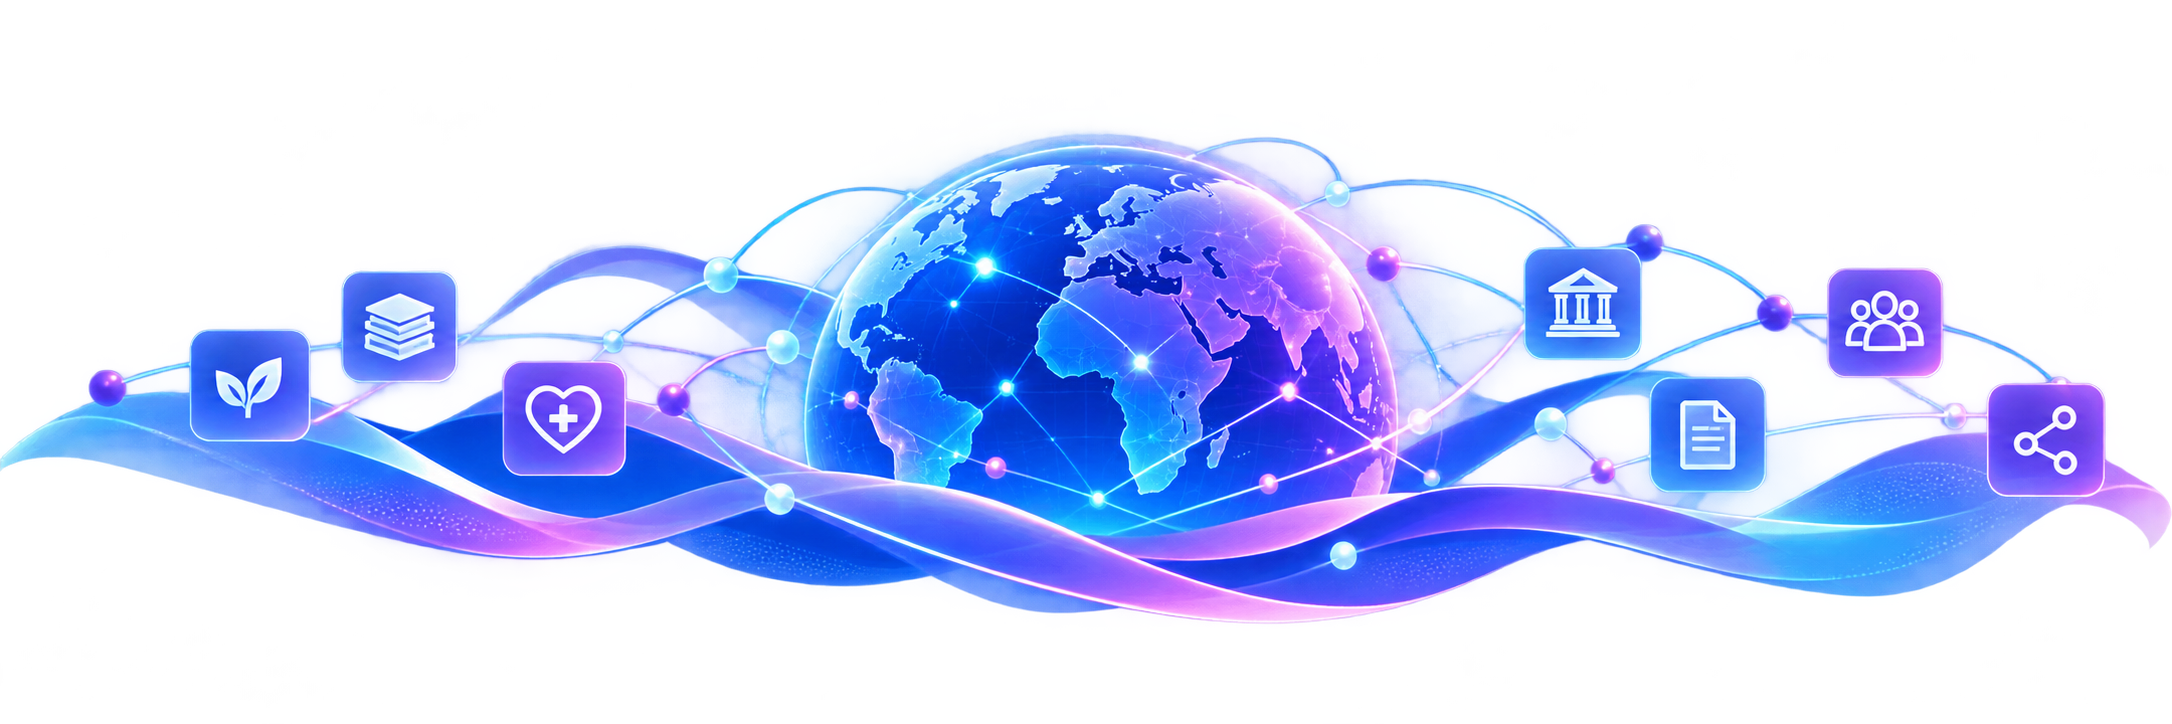
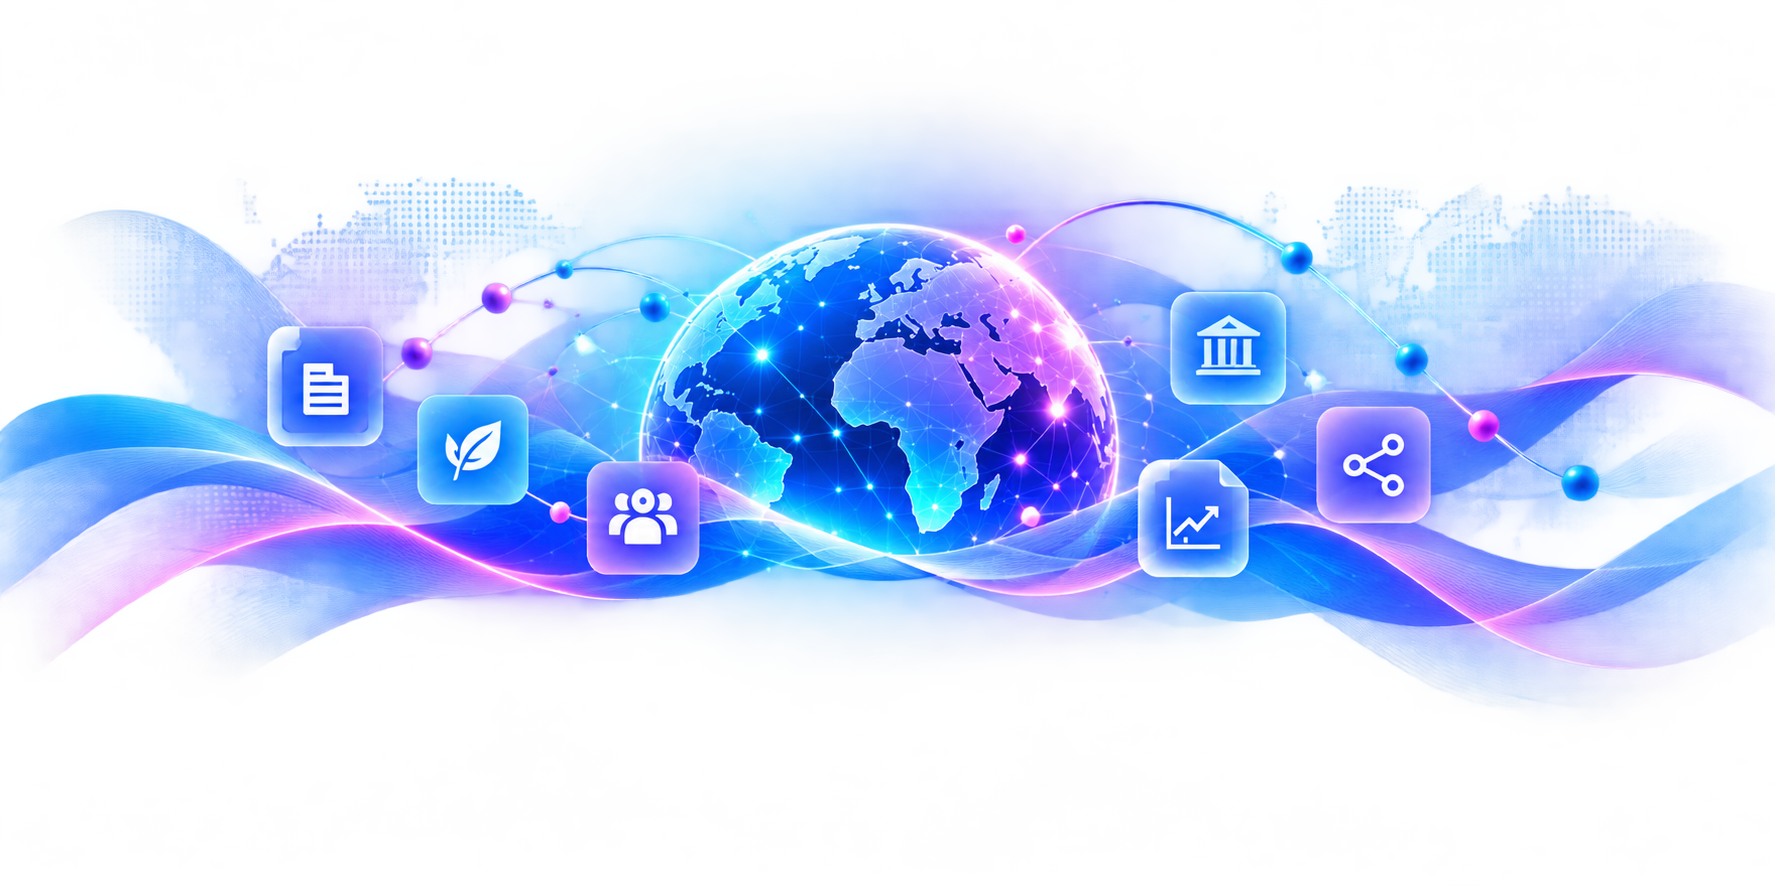
test(theme): the visual fidelity gate
The acceptance criterion for the visual layer is the render, so the
check has to be a render. The capture script takes the screenshot and
the DOM facts a picture cannot prove — whether each decoration asset
resolves, the computed styles of the surfaces the layer touches, the
resolved custom properties — because a PNG read back only yields a
URL, and an asset that failed to load would otherwise produce a
convincing picture of an empty box.

The assets are probed with fetch rather than an Image probe: the SVGs
carry only a viewBox, so they have no intrinsic size and a natural
width of 0 would be reported for a perfectly valid file.

The hero asset was replaced in place with a user-supplied banner
(1775×886, RGBA, visible art band 1775:543 ≈ 3.27:1). The CSS box was
re-cut from the old 3:1 / 'contain' sizing to a 3.27:1 / 'cover'
positioned at 'center 45.7%' so the transparent margins fall outside
the box; the asset was compressed with 'magick -strip -quality 88'
from 1 786 128 B to 1 629 474 B.

The mesh was layered under a vertical gradient so the dots fade out
above the card row, and the wave ::after was promoted to z-index 0
with mix-blend-mode multiply so the light-blue strokes read against
both surface tones.

The audit and the picture are read together. Where they disagree, the
audit wins.

The e2e case pins the cache contract for the decoration assets: they
live in the operator-editable /config/ directory, so they must be
revalidated like every other file there.

diff --git a/tests/e2e/capture-dashboard.js b/tests/e2e/capture-dashboard.js
@@ -1,0 +1,148 @@
+#!/usr/bin/env node
+/**
+ * Captures the dashboard welcome screen and the DOM facts a screenshot
+ * cannot prove.
+ *
+ * A PNG read back yields a URL, never a claim about how it looks. So every
+ * capture ships with an audit: whether each decoration asset actually
+ * resolves, the computed styles of the surfaces the layer touches, and the
+ * resolved custom properties. If the audit and the picture disagree, the
+ * audit wins.
+ *
+ * The assets are checked with fetch rather than an Image probe: the three
+ * SVGs carry only a viewBox, so they have no intrinsic size and
+ * naturalWidth reports 0 for a perfectly valid file.
+ *
+ * Usage:
+ *   NODE_PATH=<repo>/node_modules BASE_URL=https://localhost node tests/e2e/capture-dashboard.js [--theme light|dark]
+ */
+const fs = require('fs');
+const path = require('path');
+const { chromium } = require('playwright');
+const { loginViaUI } = require('./helpers/chatbot');
+
+const BASE_URL = process.env.BASE_URL || 'https://localhost';
+const OUT_DIR = path.join(__dirname, '..', '..', 'artifacts', 'living-intelligence');
+const VIEWPORT = { width: 1775, height: 886 };
+const THEMES = process.argv.includes('--theme')
+  ? [process.argv[process.argv.indexOf('--theme') + 1]]
+  : ['light', 'dark'];
+
+const audit = () => {
+  const readUrl = (property) => {
+    const raw = getComputedStyle(document.documentElement).getPropertyValue(property).trim();
+    if (!raw) return null;
+    return raw.replace(/^url\(["']?/, '').replace(/["']?\)$/, '');
+  };
+
+  const probeAsset = async (property) => {
+    const url = readUrl(property);
+    if (!url) return { url: null, ok: false, reason: 'not set' };
+    try {
+      const response = await fetch(url, { cache: 'no-store' });
+      const body = await response.text();
+      return {
+        url,
+        ok: response.ok,
+        status: response.status,
+        contentType: response.headers.get('content-type'),
+        bytes: body.length
+      };
+    } catch (error) {
+      return { url, ok: false, reason: error.message };
+    }
+  };
+
+  const surface = (selector) => {
+    const el = document.querySelector(selector);
+    if (!el) return null;
+    const style = getComputedStyle(el);
+    return {
+      backgroundImage: style.backgroundImage,
+      backgroundColor: style.backgroundColor,
+      borderColor: style.borderColor,
+      borderRadius: style.borderRadius,
+      backdropFilter: style.backdropFilter,
+      overflow: style.overflow
+    };
+  };
+
+  return (async () => {
+    const assets = {
+      hero: await probeAsset('--visual-hero'),
+      waves: await probeAsset('--visual-waves'),
+      mesh: await probeAsset('--visual-mesh'),
+      corner: await probeAsset('--visual-corner')
+    };
+
+    const cards = [...document.querySelectorAll('.quick-help-item')].map((el) => {
+      const style = getComputedStyle(el);
+      return {
+        text: el.textContent.trim().slice(0, 40),
+        backgroundColor: style.backgroundColor,
+        borderColor: style.borderColor,
+        qhBg: style.getPropertyValue('--qh-bg').trim(),
+        qhHover: style.getPropertyValue('--qh-hover').trim(),
+        qhOutline: style.getPropertyValue('--qh-outline').trim()
+      };
+    });
+
+    const overlay = document.querySelector('.quick-help-overlay');
+    const overlayBefore = overlay ? getComputedStyle(overlay, '::before') : null;
+
+    return {
+      dataVisual: document.documentElement.getAttribute('data-visual'),
+      theme: document.documentElement.getAttribute('data-theme'),
+      assets,
+      resolved: {
+        visualHero: readUrl('--visual-hero'),
+        brand: getComputedStyle(document.documentElement).getPropertyValue('--brand').trim(),
+        accent: getComputedStyle(document.documentElement).getPropertyValue('--accent').trim()
+      },
+      overlay: surface('.quick-help-overlay'),
+      overlayBefore: overlayBefore
+        ? {
+            width: overlayBefore.width,
+            height: overlayBefore.height,
+            backgroundImage: overlayBefore.backgroundImage
+          }
+        : null,
+      navBar: surface('.nav-bar'),
+      cards,
+      cardCount: cards.length
+    };
+  })();
+};
+
+(async () => {
+  fs.mkdirSync(OUT_DIR, { recursive: true });
+  const browser = await chromium.launch();
+  const results = {};
+
+  for (const theme of THEMES) {
+    const context = await browser.newContext({
+      viewport: VIEWPORT,
+      colorScheme: theme,
+      ignoreHTTPSErrors: true
+    });
+    const page = await context.newPage();
+
+    await loginViaUI(page);
+    await page.waitForSelector('.quick-help-overlay', { timeout: 30000 });
+    // Wait for the splash overlay to fade out (5s display + 1s fade)
+    await page.waitForSelector('.splash-screen', { state: 'detached', timeout: 15000 }).catch(() => {});
+    await page.waitForTimeout(1500);
+
+    const data = await page.evaluate(audit);
+    const file = path.join(OUT_DIR, `${theme}.png`);
+    await page.screenshot({ path: file, fullPage: false });
+    fs.writeFileSync(path.join(OUT_DIR, `${theme}.audit.json`), JSON.stringify(data, null, 2));
+
+    results[theme] = { file, audit: path.join(OUT_DIR, `${theme}.audit.json`) };
+    console.log(`${theme}: ${file}`);
+    await context.close();
+  }
+
+  await browser.close();
+  console.log(JSON.stringify(results, null, 2));
+})();

diff --git a/components/gov-chat-frontend/src/styles/genie-visual-effects.css b/components/gov-chat-frontend/src/styles/genie-visual-effects.css
@@ -70,14 +70,20 @@ html[data-visual='on'] .genie-living-intelligence .chatbot-container {
  * The welcome overlay. The mesh is painted on the overlay rather than
  * on the chat window: the overlay is opaque, so anything painted on the
  * window behind it would never be seen.
+ *
+ * The mesh is sized to its natural 1600:580 aspect and pinned to the top
+ * of the overlay. A vertical gradient on top of the mesh fades it to
+ * surface above the card row, so the field behind the cards reads clean
+ * while the mesh stays faintly present in the hero region.
  */
 html[data-visual='on'] .genie-living-intelligence .quick-help-overlay {
   isolation: isolate;
-  background-image:
-    linear-gradient(180deg, transparent, color-mix(in srgb, var(--surface) 30%, transparent)), var(--visual-mesh);
-  background-position: center, center;
+  background-image: linear-gradient(180deg, transparent 0 28%, var(--surface) 58% 100%), var(--visual-mesh);
+  background-position:
+    center top,
+    center top;
   background-size:
-    cover,
+    100% 100%,
     min(900px, 100%) auto;
   background-repeat: no-repeat;
 }
@@ -89,11 +95,11 @@ html[data-visual='on'] .genie-living-intelligence .quick-help-overlay::before {
   z-index: 0;
   flex: 0 0 auto;
   align-self: center;
-  width: min(100%, 860px);
-  height: clamp(96px, 19vw, 218px);
-  background: var(--visual-hero) center / contain no-repeat;
+  width: min(100%, 920px);
+  height: clamp(180px, 28vw, 282px);
+  background: var(--visual-hero) center 45.7% / cover no-repeat;
   pointer-events: none;
-  filter: drop-shadow(0 12px 25px color-mix(in srgb, var(--accent) 14%, transparent));
+  filter: drop-shadow(0 12px 30px color-mix(in srgb, var(--accent) 16%, transparent));
   animation: gli-enter 650ms ease-out both;
 }
 
@@ -101,11 +107,12 @@ html[data-visual='on'] .genie-living-intelligence .quick-help-overlay::after {
   content: '';
   position: absolute;
   inset: auto 0 0;
-  height: min(32%, 220px);
+  height: min(40%, 280px);
   background: var(--visual-waves) bottom / 100% auto no-repeat;
   opacity: var(--gli-deco-strength);
+  mix-blend-mode: multiply;
   pointer-events: none;
-  z-index: -1;
+  z-index: 0;
 }
 
 html[data-visual='on'] .genie-living-intelligence .quick-help-content {
@@ -169,7 +176,7 @@ html[data-visual='on'] .genie-living-intelligence .document-item {
 
 @media (max-width: 900px) {
   html[data-visual='on'] .genie-living-intelligence .quick-help-overlay::before {
-    height: clamp(76px, 22vw, 160px);
+    height: clamp(140px, 30vw, 230px);
   }
 
   html[data-visual='on'] .genie-living-intelligence .sidebar:not(.collapsed)::before {
@@ -181,7 +188,7 @@ html[data-visual='on'] .genie-living-intelligence .document-item {
 
 @media (max-width: 600px) {
   html[data-visual='on'] .genie-living-intelligence .quick-help-overlay::before {
-    height: 90px;
+    height: clamp(110px, 28vw, 160px);
   }
 
   html[data-visual='on'] .genie-living-intelligence .quick-help-overlay::after {

diff --git a/tests/e2e/living-intelligence.spec.js b/tests/e2e/living-intelligence.spec.js
@@ -1,0 +1,24 @@
+// tests/e2e/living-intelligence.spec.js
+const { test, expect } = require('@playwright/test');
+
+// The decorative layer is configuration, and its assets live in the
+// bind-mounted /config/ directory, so they must be revalidated like the
+// other operator-editable files — a cached copy would keep serving the
+// baked-in illustration after an operator swapped it on the host.
+
+test.describe('Living Intelligence visual layer', () => {
+  test('the decoration assets are served from /config/ and revalidated', async ({ request }) => {
+    for (const asset of [
+      '/config/genie-visual/assets/genie-hero-transparent.png',
+      '/config/genie-visual/assets/genie-bottom-waves.svg',
+      '/config/genie-visual/assets/genie-dot-mesh.svg',
+      '/config/genie-visual/assets/genie-corner-network.svg'
+    ]) {
+      const response = await request.get(asset);
+      expect(response.status(), `${asset} should be served`).toBe(200);
+      const cacheControl = response.headers()['cache-control'] || '';
+      expect(cacheControl, `${asset} must be revalidated`).toContain('no-cache');
+      expect(cacheControl, `${asset} must not be immutable`).not.toContain('immutable');
+    }
+  });
+});
